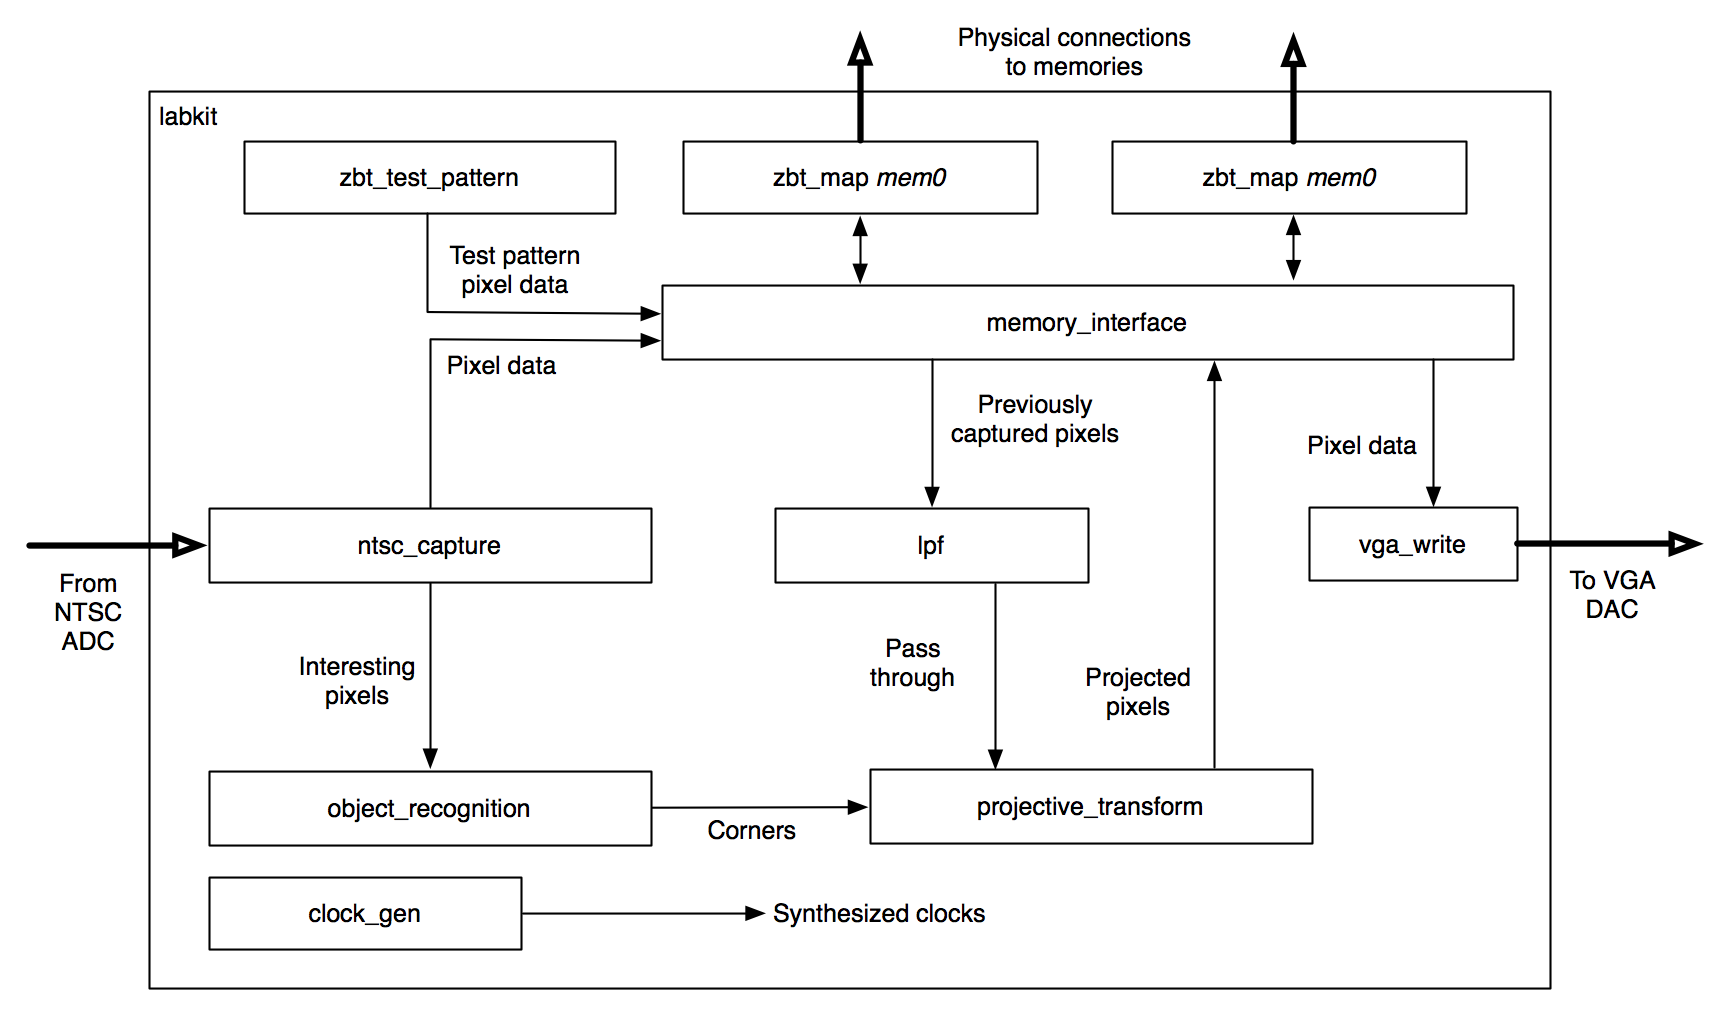
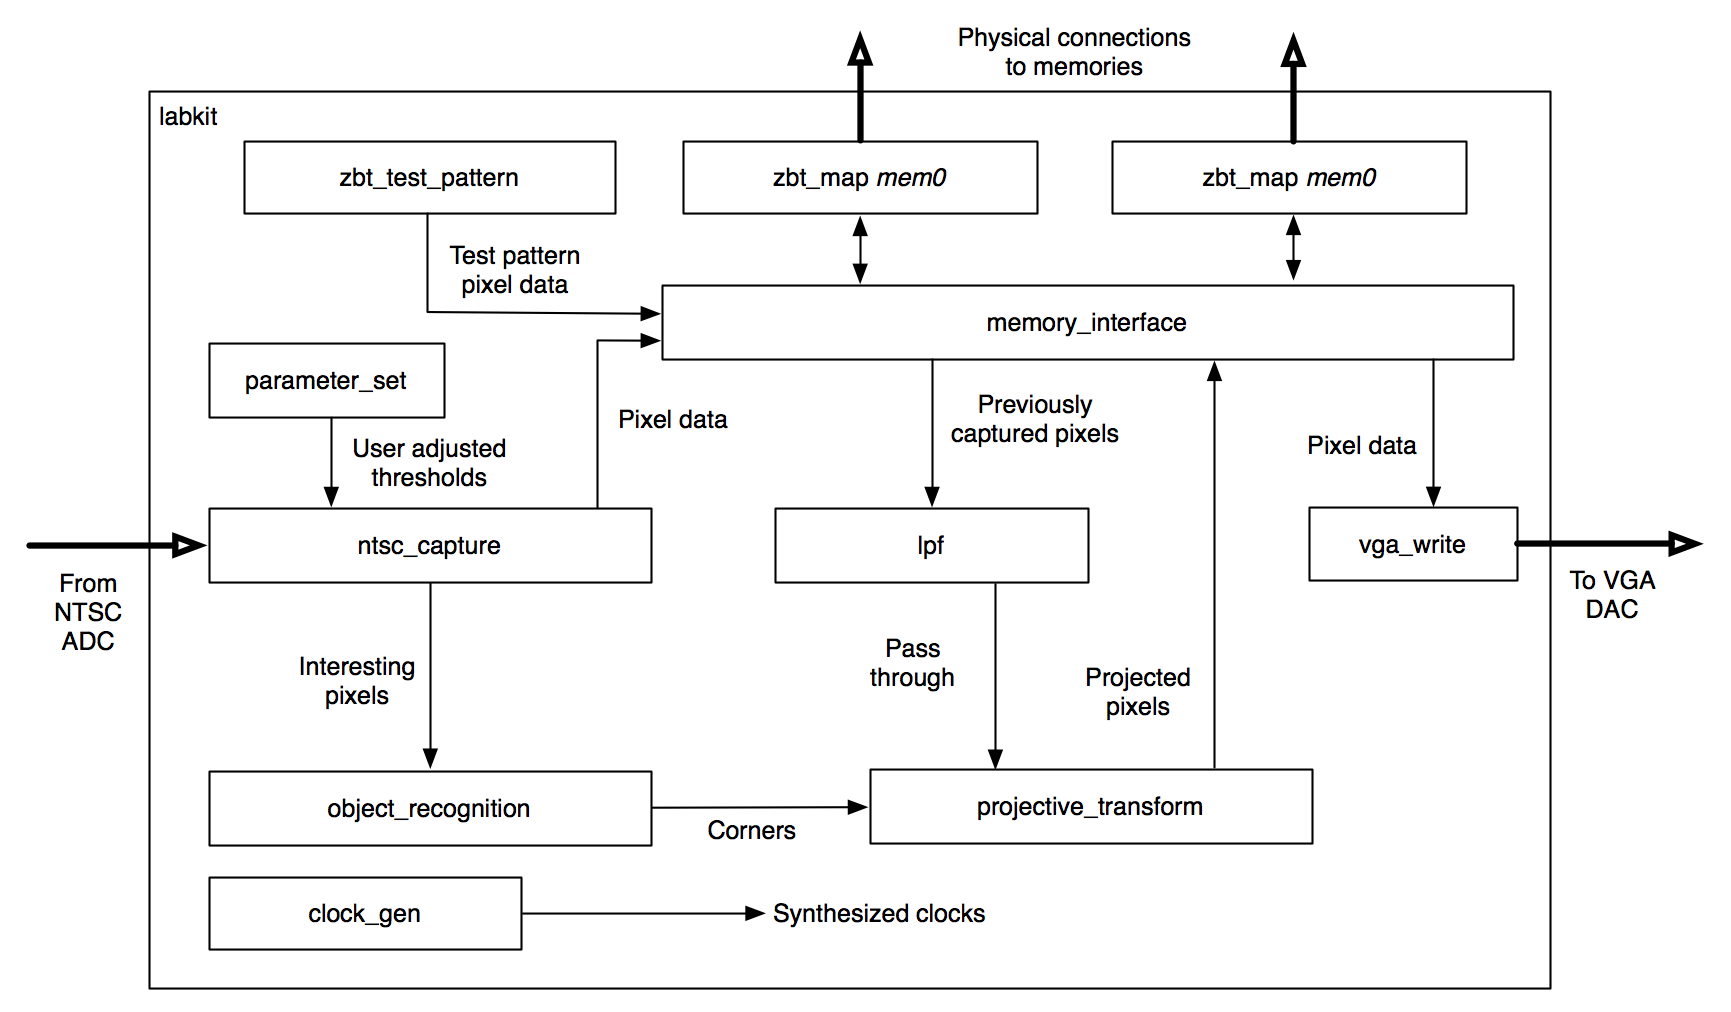
added or test description/updated block diagram

Changed region(s): [[0.1248, 0.337, 0.3432, 0.4901], [0.3432, 0.3982, 0.4367, 0.4289]]

diff --git a/doc/report/report.tex b/doc/report/report.tex
@@ -11,13 +11,13 @@
 \onehalfspacing
 
 \begin{document}
-\title{Augmented Reality Image Processing System}
+\title{Recursive Augmented Reality Image Processing System}
 \author{Logan P. Williams \& Jos\'{e} E. Cruz Serrall\'{e}s}
 \date{December 10, 2011}
 \maketitle
 
 \section*{Abstract}
-We have implement an augmented reality system that can overlay a digital image on video of a real world environment. We read NTSC video from a video camera and store it in ZBT SRAM. A picture frame with colored markers on the corners is held in front of the camera. We then perform chroma-based object recognition to locate the coordinates of the corners. Using these coordinates, we apply a low-pass filter and a projective transformation to project an image onto the dimensions of the picture frame. We then output VGA video of the original captured image, with the processed image overlayed on top of the frame.
+We have implemented an augmented reality system that can overlay a digital image on video of a real world environment. We read NTSC video from a video camera and store it in ZBT SRAM. A picture frame with colored markers on the corners is held in front of the camera. We then perform chroma-based object recognition to locate the coordinates of the corners. Using these coordinates, we apply a projective transformation to project an image onto the dimensions of the picture frame. We then output VGA video of the original captured image, with the processed image overlayed on top of the frame. By using the previously displayed video frame as the image to be projected, the system becomes ``recursive.''
 
 \newpage
 
@@ -177,6 +177,18 @@ The luminance and chrominances have bitwidths of 8, 5, and 5, respectively. Init
 
 Debugging and testing Verilog-defined hardware is complicated by extremely lengthy synthesis and implementation times. Because of this, we performed as much testing as possible in the ModelSim simulation environment. While ModelSim proved very fast and effective for ensuring that behavior logic was correct, it failed to help us determine the source of many physical timing bugs, such as setup and hold time violations on communications with the external ZBT memories.
 
+\subsection{Testing the corner recognition}
+
+Initially, the behavior of {\tt object\_recognition} was tested in a simulated testbench in ModelSim. This was a straightforward process, as most of the problems found were due to mistakes in the behavior logic. Once synthesized, the majority of the modifications that needed to be made to corner recognition involved adjusting the thresholding values used in {\tt ntsc\_capture} to detect colors. To facilitate this process, we implemented several features.
+
+The module {\tt parameter\_set} allows the thresholding parameters to be adjusted in real time, without recompiling the verilog. Color highlighting was added to {\tt ntsc\_recognition} so that pixels identified as a certain color would stand out from the rest of the image, and parameters could be tuned to balance the amount of extraneous detection with the intensity of intended detections. Finally, a crosshair display was added to {\tt vga\_write}, showing in real time the calculated corner positions on the video output.
+
+\begin{figure}[h!]
+\centering
+\includegraphics[width=0.75\textwidth]{images/IMG_0131.JPG}
+\caption{\emph{Highlighting recognized colors, and displaying crosshairs on corners, so that color detection thresholds could be set more precisely.}}
+\end{figure}
+
 \subsection{Testing {\tt projective\_transform}}
 
 To test {\tt projective\_transform}, a test jig was developed that provided the module with a list of input pixels, of linearly increasing luminance. The test jig also took the output of {\tt projective\_transform}, and saved it into an external file, along with the x and y coordinates of each output pixel. A MATLAB script was then used to display the results of {\tt projective\_transform}, along with the original image. The result of this MATLAB script is shown below. In this way, the algorithm used by {\tt projective\_transform} to distort the image was known to be correct.
@@ -188,8 +200,19 @@ To test {\tt projective\_transform}, a test jig was developed that provided the 
 \caption{\emph{On the left, the sample input image used to test {\tt projective\_transform}. On the right, the output image from the testbench.}}
 \end{figure}
 
+However, this behavior simulation did not locate several problems that we had with setup and hold times on the signals that {\tt projective\_transform} transmits to {\tt memory\_interface}. In order to more easily diagnose these issues, we created a mode where {\tt lpf} sent a test pattern to {\tt projective\_transform} instead of real image data. With this mode enabled, it became very clear what the pattern of misplaced and miswritten pixels was.
+
+\begin{figure}[h!]
+\centering
+\includegraphics[width=0.75\textwidth]{images/IMG_0121.JPG}
+\caption{\emph{Processing a test pattern instead of real image data, to decouple {\tt lpf} from {\tt memory\_interface}, and to make bugs in {\tt projecting\_transform} easier to recognize and diagnose.}}
+\end{figure}
+
+The logic analyzer also proved quite helpful for discovering these timing violations. However, we occasionally noticed that connecting a wire to the logic analyzer outputs was sufficient to change the behavior of the synthesized hardware, as it changed the synthesized routing path, and thus the routing delay. For this reason, using techniques such as the test pattern above for inferring the sources of bugs was necessary.
+
 \subsection{Testing {\tt memory\_interface}}
 {\tt memory\_interface} will be tested in stages. Initially, basic read and write functionality will be assessed in simulation and then on the FPGA. Once we have written and read information from the ZBT RAM successfully, we will attempt to write, read, and display an image. Finally, all of the logic pertaining to handling read and write requests from all the modules simulatenously will be written, tested using extensive testbenches, and finally tested on an FPGA with dummy modules. All of this testing should avoid help us avoid headaches during final integration.
+
 
 \section{Conclusion}
 
@@ -209,5 +232,10 @@ To test {\tt projective\_transform}, a test jig was developed that provided the 
 
 \end{thebibliography}
 
+
+\appendix
+
+\section{Project Source Code}
+\subsection{{\tt labkit.v}}
 
 \end{document}
